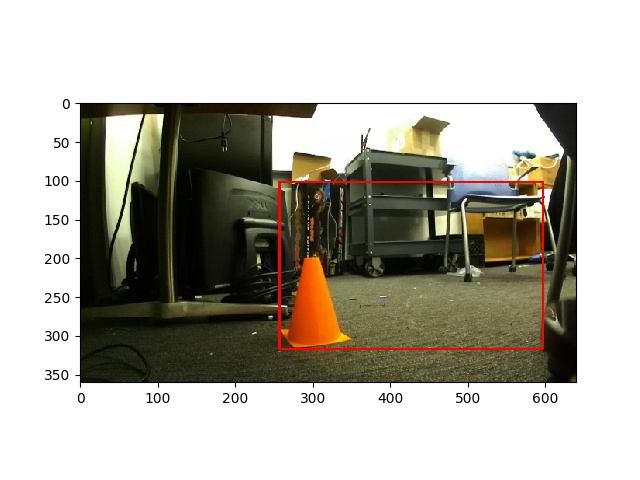
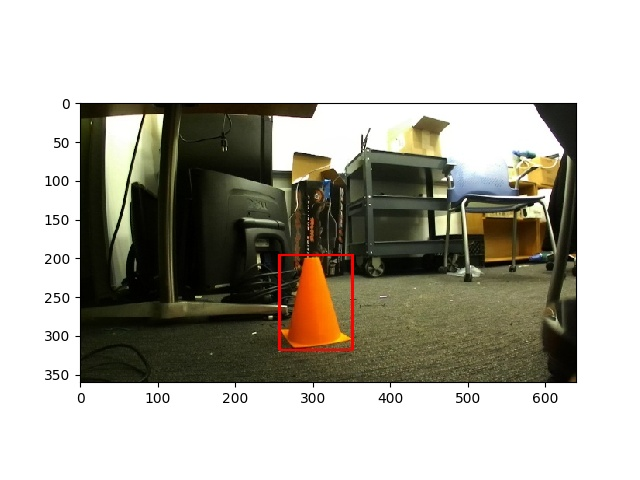
Added erosion and dilation to handle outliers.

Changed region(s): [[0.4062, 0.375, 0.875, 0.75]]

diff --git a/scripts/computer_vision/color_segmentation.py b/scripts/computer_vision/color_segmentation.py
@@ -52,29 +52,35 @@ def cd_color_segmentation(img, template=None, img_path=None):
 	dark_orange = (25, 255, 255)
 
 	mask = cv2.inRange(img_hsv, light_orange, dark_orange)
+
+
 	result = cv2.bitwise_and(img_rgb, img_rgb, mask=mask)
 
 	result= cv2.GaussianBlur(result, (7,7), 0) #helps with getting bottom edges of the cone
+	erode_kernel = np.ones((7,7), 'uint8')
+	result = cv2.erode(result, erode_kernel)
 
-	## IN PROGRESS: TRYING TO WORK WITH CONTOURS ##
+	dilate_kernel = np.ones((9,9), 'uint8')
+	result = cv2.dilate(result, dilate_kernel, iterations=1)
+	
+	## WIP with contours: may remove later ##
 	# color_cone_x, color_cone_y, _ = np.nonzero(result)
 	# color_bounding_box = ((np.min(color_coney), np.min(color_cone_x)), (np.max(color_cone_y), np.max(color_cone_x))) #np.max(cone_y)))
-
 	# img_bb = cv2.rectangle(img_rgb, bounding_box[0], bounding_box[1], (255,0,0), 2)
-
 	# im_gray = cv2.cvtColor(img, cv2.COLOR_BGR2GRAY)
 	# ret, thresh = cv2.threshold(im_gray, 127, 255, 0)
 	# contours, hierarchy = cv2.findContours(thresh, cv2.RETR_TREE, cv2.CHAIN_APPROX_SIMPLE)
-
+	# kernel = np.ones((5,5), 'uint8')
+	# erode_img = cv2.erode(img_gray)
 
 	color_cone_x, color_cone_y, _ = np.nonzero(result)
 	bounding_box = ((np.min(color_cone_y), np.min(color_cone_x)), (np.max(color_cone_y), np.max(color_cone_x)))
 	img_bb = cv2.rectangle(img_rgb, bounding_box[0], bounding_box[1], (255,0,0), 2)
-
+	print("bounding_box:", bounding_box)
 
 	plt.imshow(img_bb) #, bounding_box[0], bounding_box[1])
 	plt.savefig(img_bb_name)
-	plt.show(result)
+	# plt.show(result)
 
 	########### YOUR CODE ENDS HERE ###########
 
